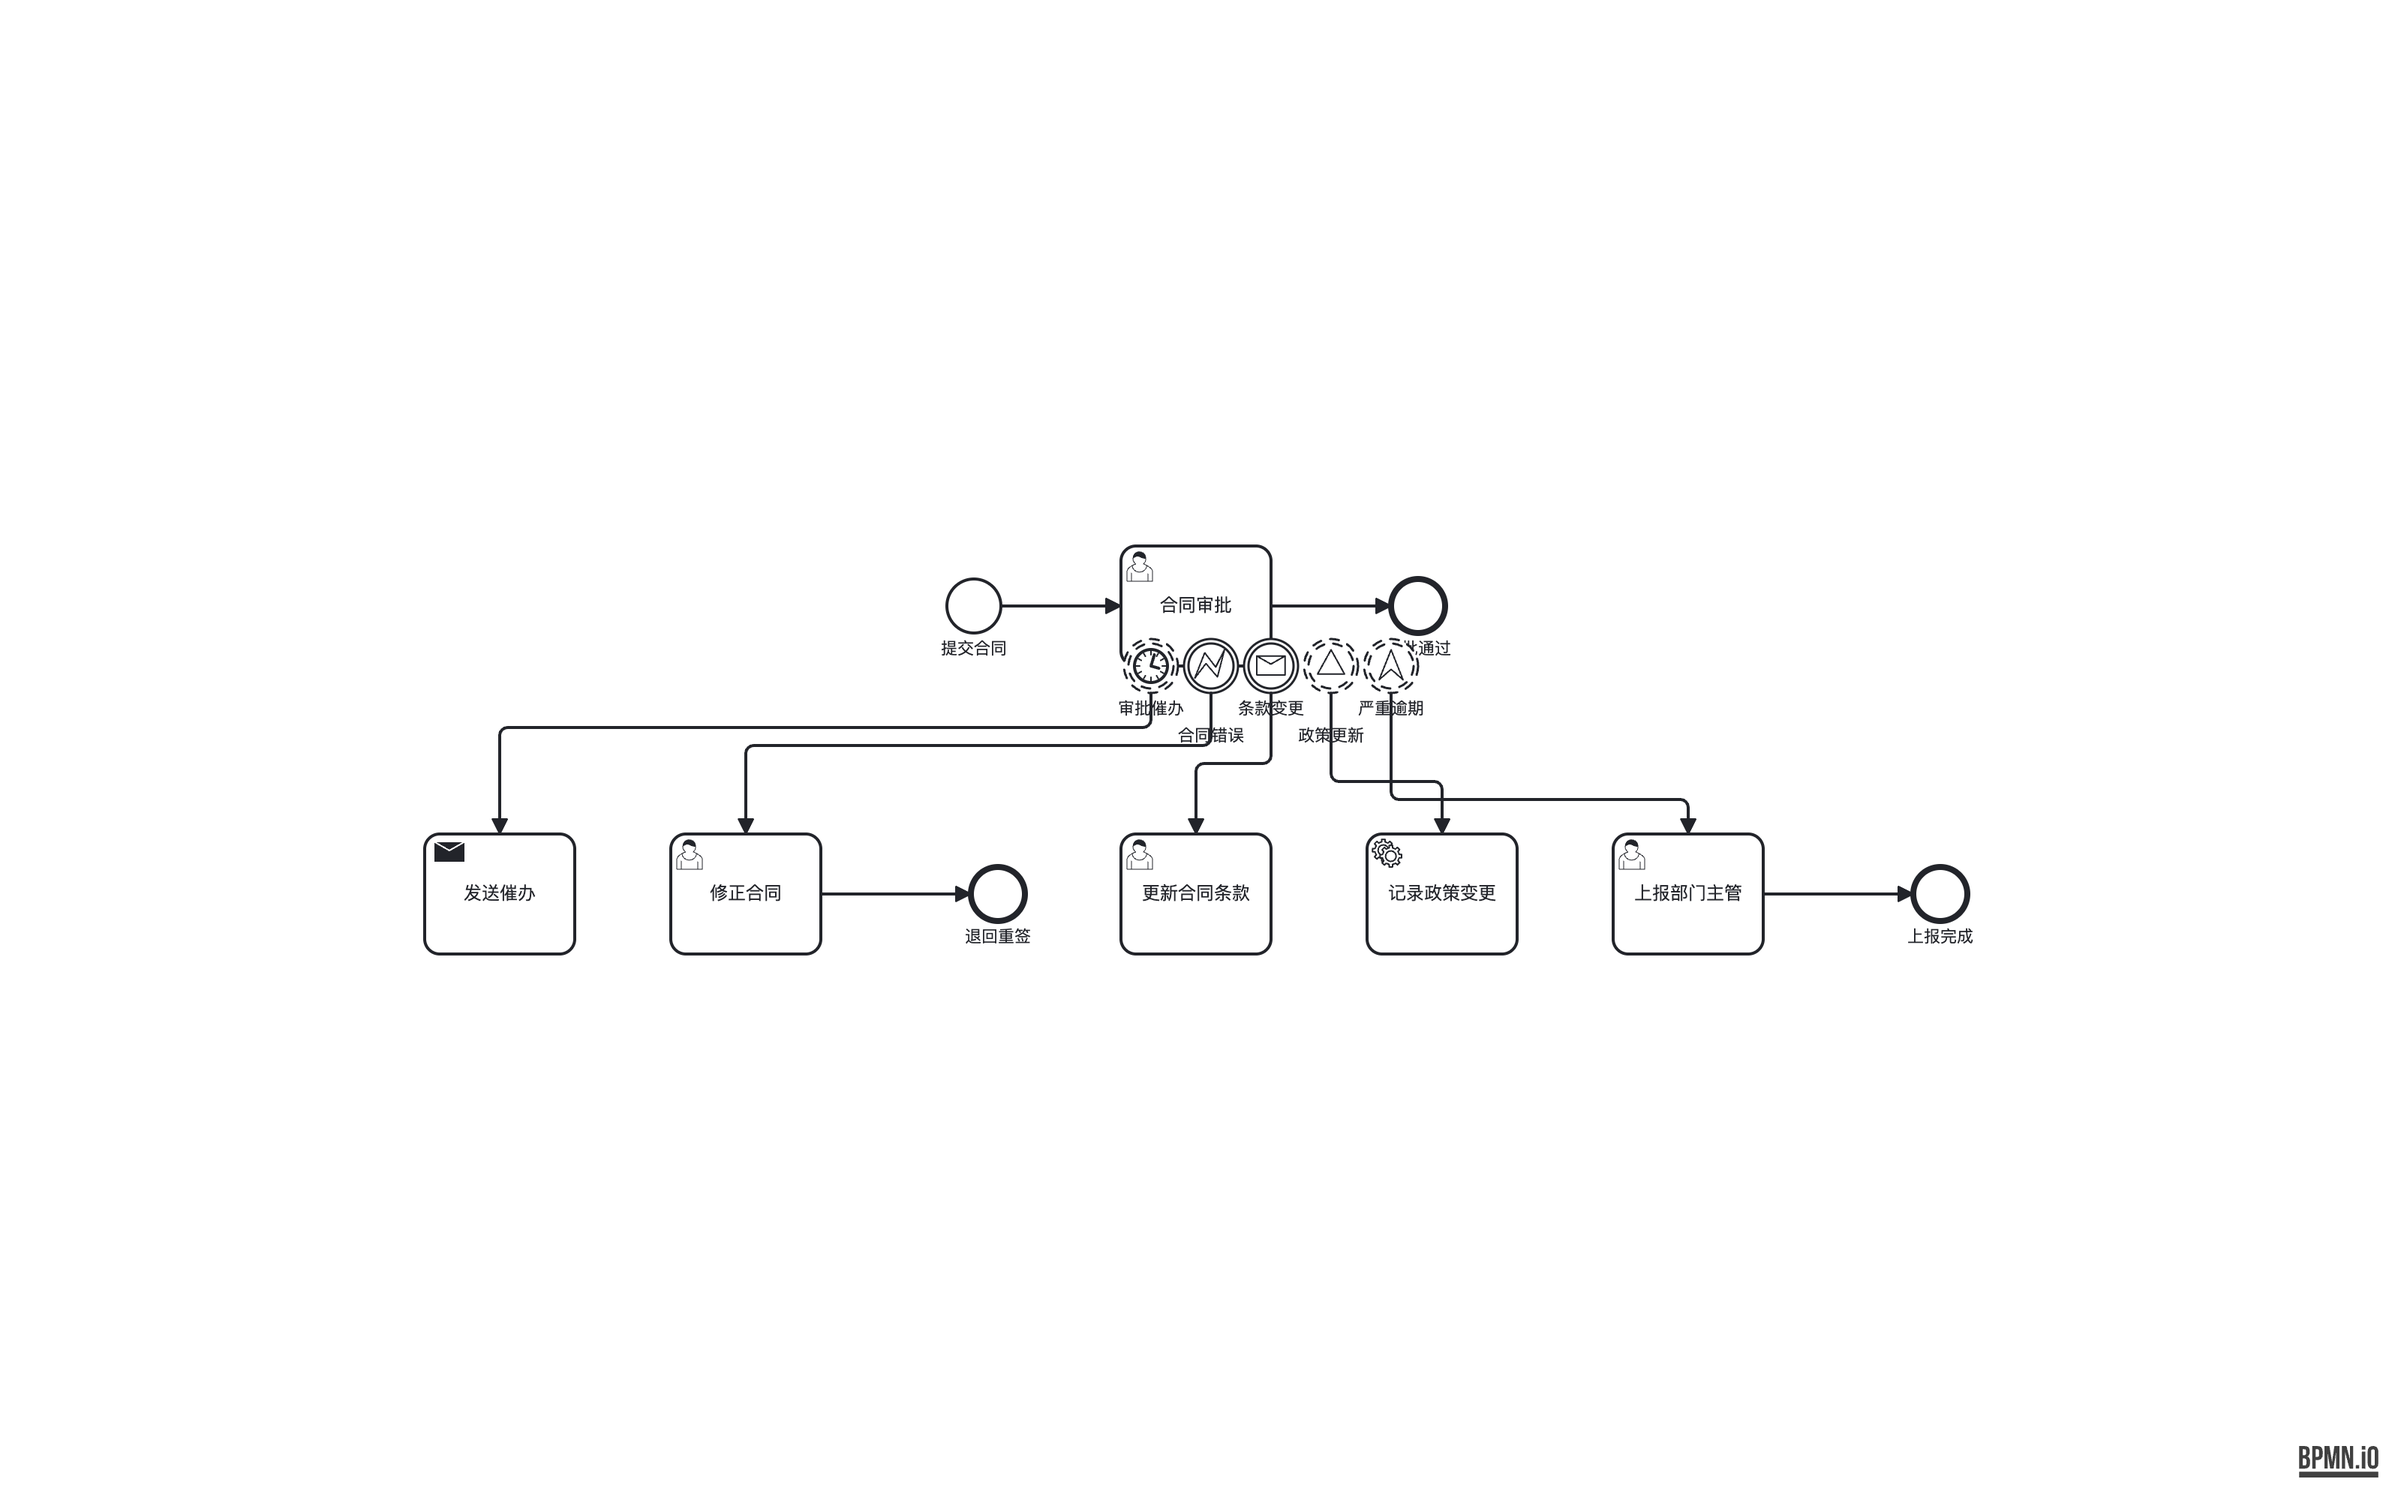
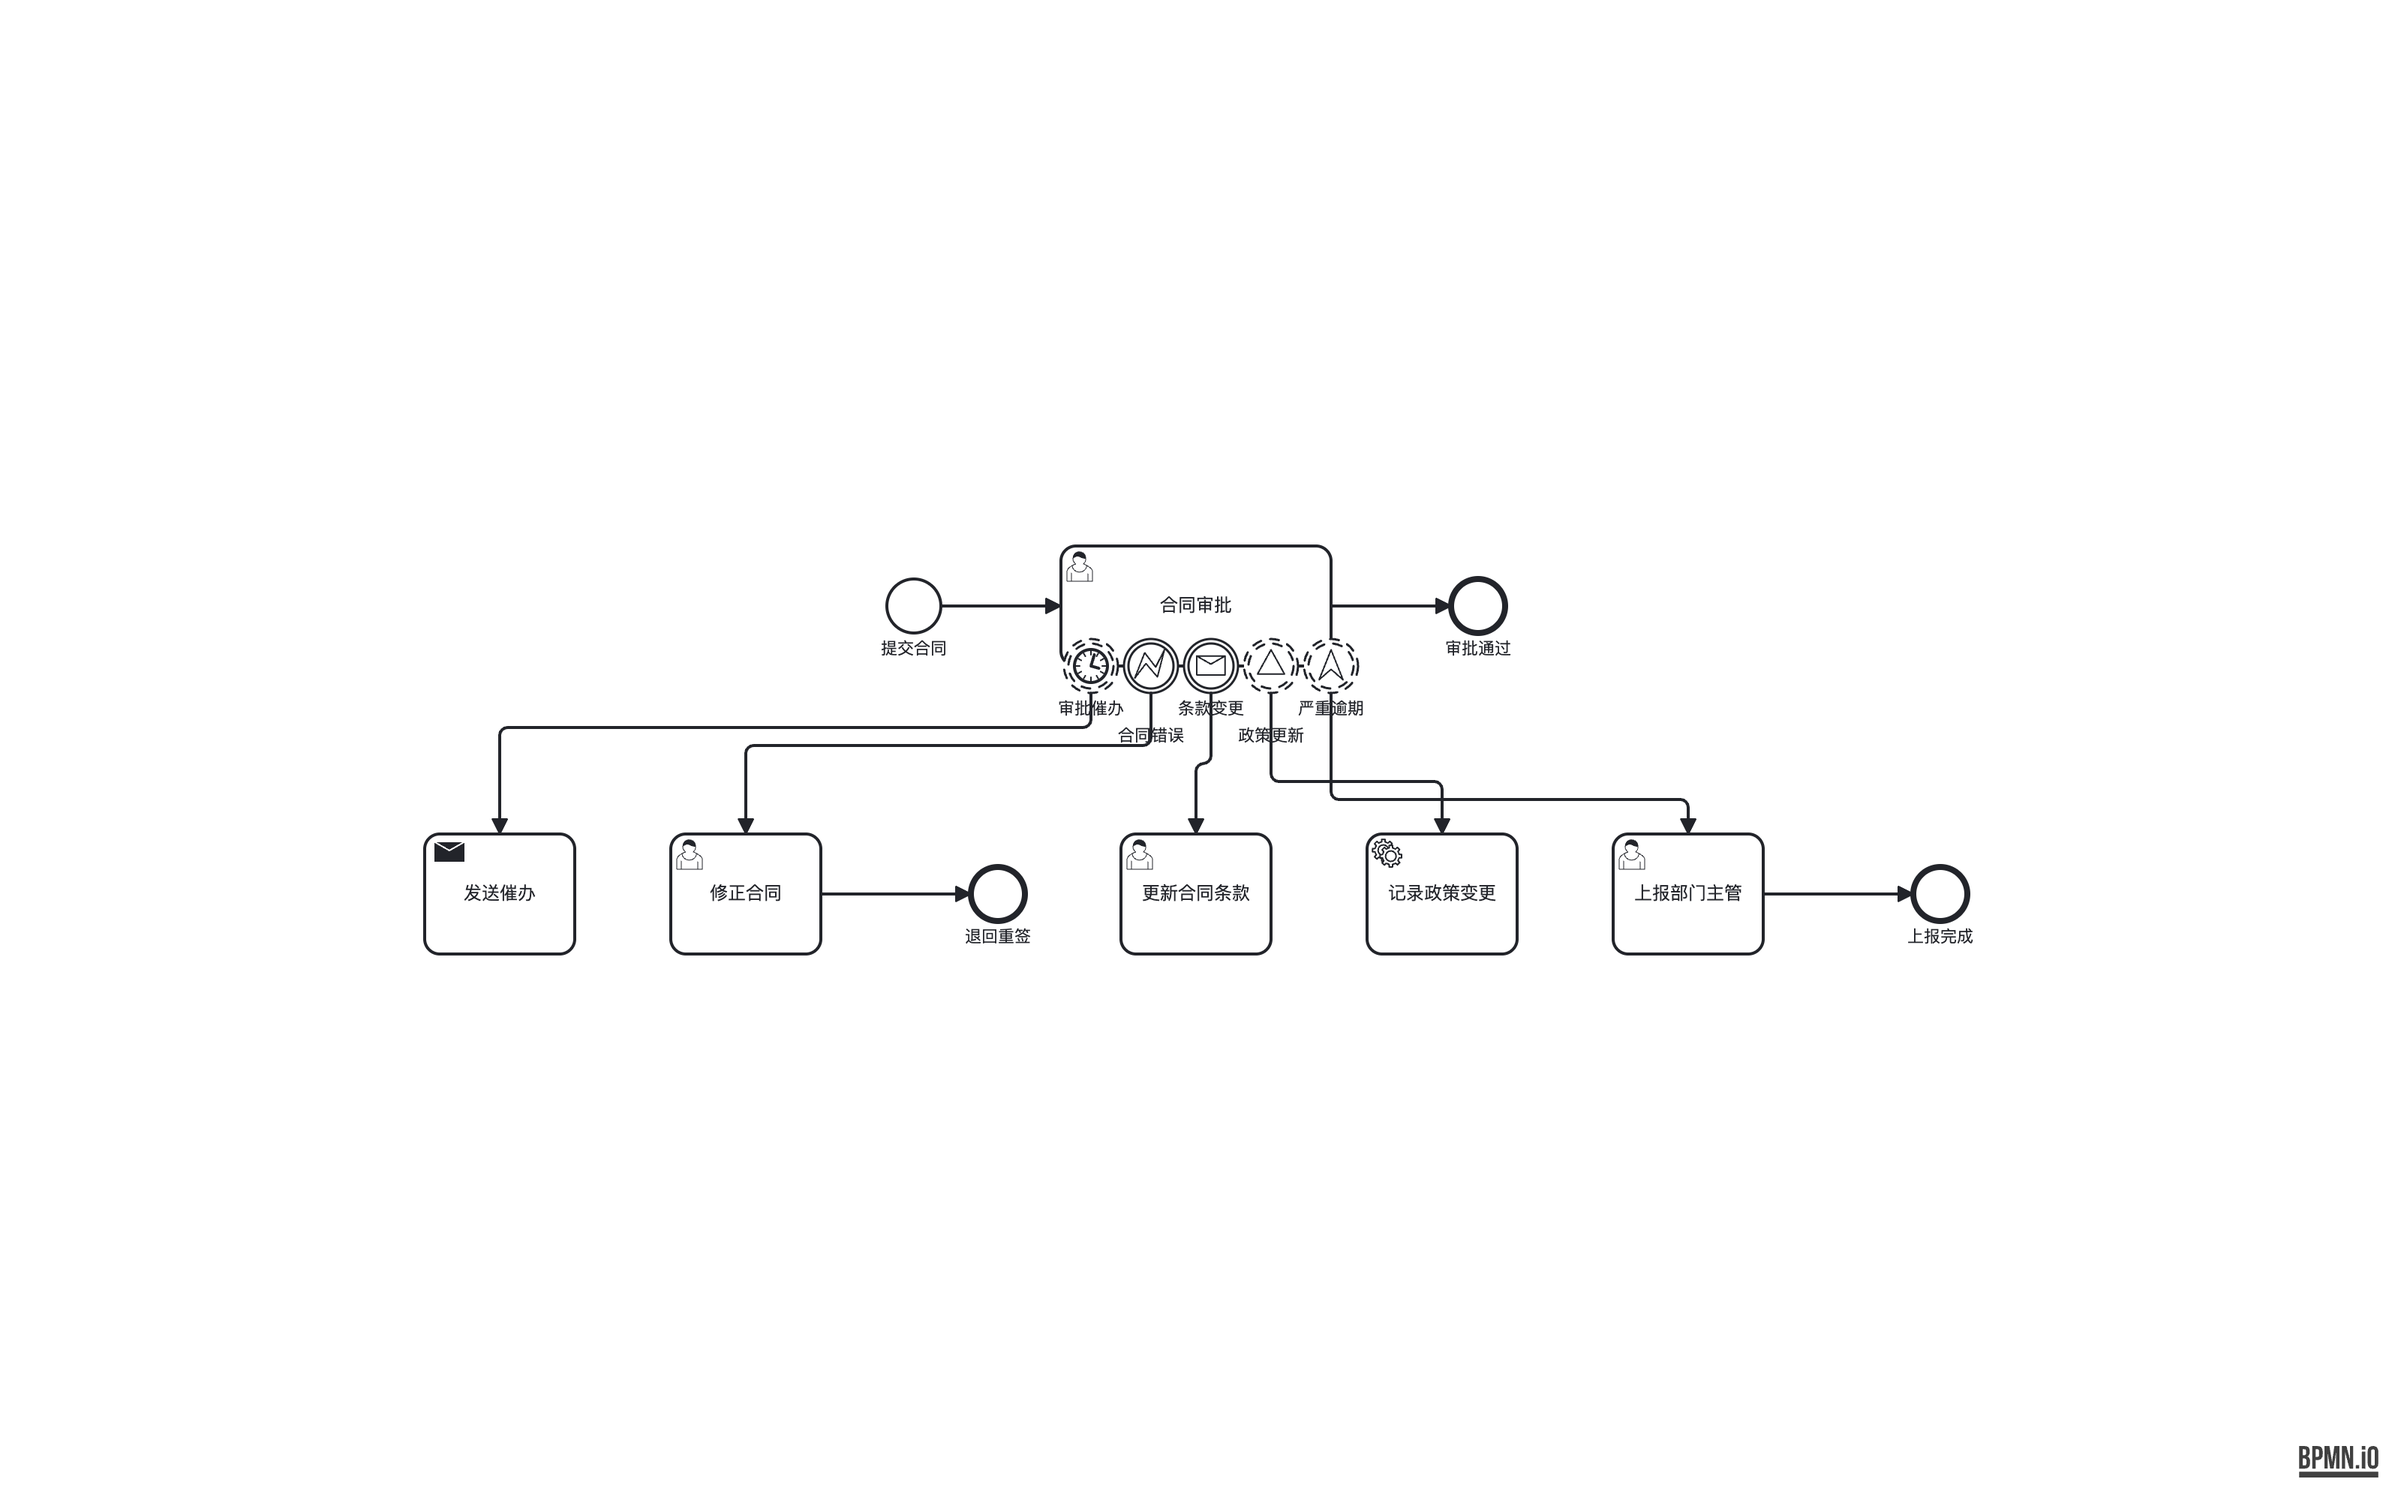
fix(boundary): 卡1.2 多 boundary 溢出 host 边长时撑宽 host（83 B1）
- bpmn-rules 新增 boundaryCapacityOnBottom / hostWidthForBoundaries：末个 BE
  允许骑右下角点（与 13 三位 BE 在 100 宽 host 上的既有形态一致），100 宽容 3 个。
- pipeline 两处 PlacementInputNode 组装（主流程 + handler 子图 mini-ELK）按
  boundaryEventIds.length 撑宽 w——撑宽必须在 ELK 之前，lane/pool 才按真宽算。

验收：83 B1 2→0（5 个 BE 全骑底边，label 双行交错可读，L3 保持 0）；
E4 3→2（宽 host 顺带消掉一个负坐标，余 2 属卡1.3/P3）；13 逐字节不变。
已知待人审：F4 83 2.27→2.39（host 撑宽 80px 的直接结果，远低于 6:1 阈值）。

Changed region(s): [[0.375, 0.372, 0.625, 0.527]]

diff --git a/src/pipeline.ts b/src/pipeline.ts
@@ -34,7 +34,7 @@ import {
   type StageSnapshot,
 } from './debug/ai-debug.ts';
 import type { LayoutedGraph } from './serializer/types/elk-output.ts';
-import { boundaryRuleFor, type BpmnEdgeKind } from './stages/bpmn-rules.ts';
+import { boundaryRuleFor, hostWidthForBoundaries, type BpmnEdgeKind } from './stages/bpmn-rules.ts';
 // 所有 stage 入口从契约注册表 (./stages/index.ts) 单点 import
 import {
   // HandlerSubgraph（纯图算法，已从 pipeline 抽出）
@@ -279,11 +279,16 @@ export async function runPipeline(
           }
         }
         const size = nodeSizeOf(n.type);
+        // B1：BE 中心要骑在 host 底边上，host 太窄装不下所有 BE 时按 BE 数撑宽
+        // （83：5 个 BE 在 100 宽 host 上，后两个中心掉出右边缘）。撑宽必须发生在
+        // ELK 之前，lane/pool 尺寸才按真宽算。
+        const w = Math.max(size.w, hostWidthForBoundaries(n.boundaryEventIds.length));
         return {
           id: n.id,
           type: n.type,
-          ...size,
-          layoutH: layoutHeightWithIoSpec(size.h, n.ioInputCount, n.ioOutputCount, n.ioInputNames, n.ioOutputNames, size.w),
+          w,
+          h: size.h,
+          layoutH: layoutHeightWithIoSpec(size.h, n.ioInputCount, n.ioOutputCount, n.ioInputNames, n.ioOutputNames, w),
           layerConstraint,
         };
       }),
@@ -530,11 +535,13 @@ export async function runPipeline(
             }
           }
           const size = nodeSizeOf(n.type);
+          const w = Math.max(size.w, hostWidthForBoundaries(n.boundaryEventIds.length));
           return {
             id: n.id,
             type: n.type,
-            ...size,
-            layoutH: layoutHeightWithIoSpec(size.h, n.ioInputCount, n.ioOutputCount, n.ioInputNames, n.ioOutputNames, size.w),
+            w,
+            h: size.h,
+            layoutH: layoutHeightWithIoSpec(size.h, n.ioInputCount, n.ioOutputCount, n.ioInputNames, n.ioOutputNames, w),
           };
         });
       const handlerFlows = sg.edges

diff --git a/src/stages/bpmn-rules.ts b/src/stages/bpmn-rules.ts
@@ -20,6 +20,26 @@ export const BE_INSET = 20;
 /** 多个 boundary event 时，相邻两个 BE 中心点的水平间距 */
 export const BE_HORIZONTAL_STEP = 40;
 
+/**
+ * host 底边能容纳的 BE 中心点数：cx = BE_INSET + i*STEP 必须 ≤ hostWidth。
+ * 末个 BE 允许骑到右下角点（与 fixture 13 三位 BE 在 100 宽 host 上的既有形态一致——
+ * B1 只要求中心在边上）。所以 100 宽容 3 个（20/60/100），
+ * 想更宽余量就撑宽 host（hostWidthForBoundaries），不要改这两个常量。
+ */
+export function boundaryCapacityOnBottom(hostWidth: number): number {
+  return Math.max(1, Math.floor((hostWidth - BE_INSET) / BE_HORIZONTAL_STEP) + 1);
+}
+
+/**
+ * 容纳 count 个 BE 所需的最小 host 宽（末个 BE 中心恰好落在右边缘）。
+ * 撑宽必须发生在 ELK 摆位之前（PlacementInputNode.w），否则 BE 排布和 lane/pool
+ * 尺寸会按旧宽算。count=0 返回 0（不撑）。
+ */
+export function hostWidthForBoundaries(count: number): number {
+  if (count <= 0) return 0;
+  return BE_INSET + (count - 1) * BE_HORIZONTAL_STEP;
+}
+
 // ============================================================
 // Boundary handler 子图摆位
 // ============================================================
